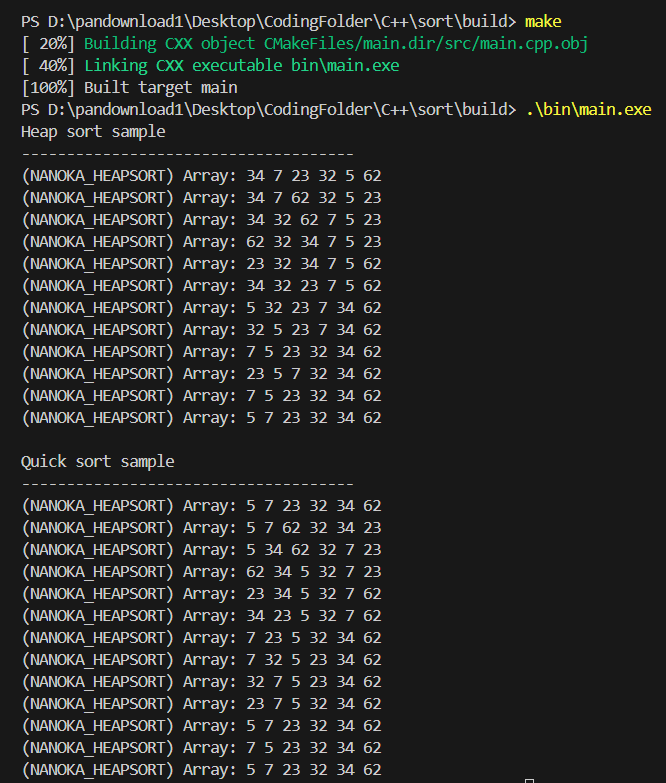
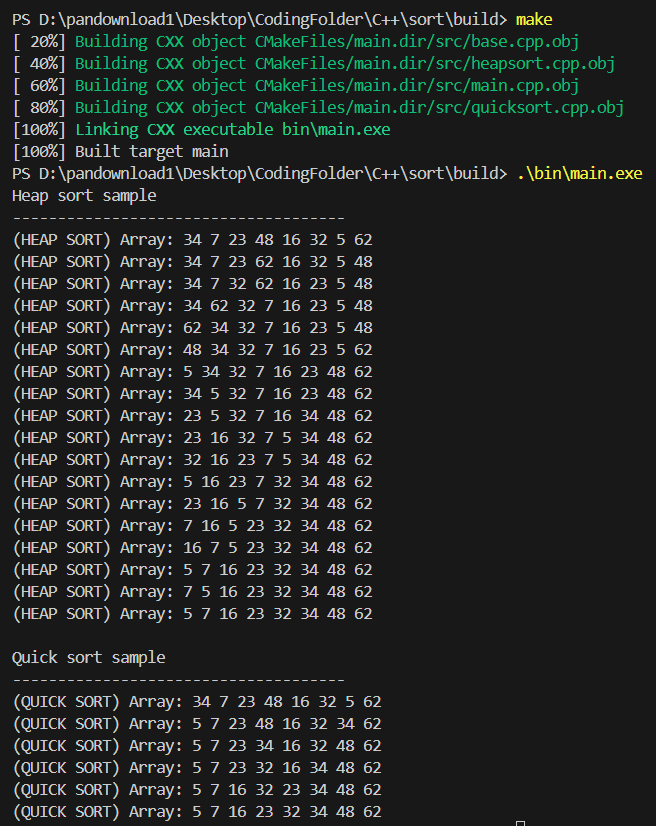
Nanoka edit. 2025/9/1

Changed region(s): [[0.0, 0.0, 0.9756, 1.0], [0.7927, 0.1839, 0.9756, 0.2146]]

diff --git a/inc/heapsort.hpp b/inc/heapsort.hpp
@@ -1,8 +1,5 @@
 #include <base.hpp>
 
-#undef TAG
-#define TAG "NANOKA_HEAPSORT"
-
 // 极力不推荐在头文件中使用 using namespace std
 using namespace std;
 
@@ -77,6 +74,7 @@ public:
 private:
     vector<int> arr;
     mutex mtx;
+    string TAG = "HEAP SORT";
 };
 
 class HeapSort{
@@ -85,11 +83,7 @@ public:
 
     // 打印数组
     inline const void printArray(void) const {
-        cout << "(" << TAG << ") Array: ";
-        for (const auto &num : arr.arr){
-            cout << num << " ";
-        }
-        cout << endl;
+        arr.printArray();
     }
     // 设置数组
     inline void setArray(const vector<int> &arr){
@@ -122,4 +116,5 @@ private:
     void heapSort(int end);
     HeapTree arr;
     mutex mtx;
+    string TAG = "HEAP SORT";
 };

diff --git a/src/main.cpp b/src/main.cpp
@@ -6,16 +6,16 @@ using namespace std;
 int main(void){
     HeapSort sorter;
     QuickSort sorter2;
-    sorter.setArray({34, 7, 23, 32, 5, 62});
-    sorter2.setArray({34, 7, 23, 32, 5, 62});
+    sorter.setArray({34, 7, 23, 48, 16, 32, 5, 62});
+    sorter2.setArray({34, 7, 23, 48, 16, 32, 5, 62});
 
     cout << "Heap sort sample\n-------------------------------------" << endl;
     sorter.printArray();
     sorter.sort();
 
     cout << "\nQuick sort sample\n-------------------------------------" << endl;
-    sorter.printArray();
-    sorter.sort();
+    sorter2.printArray();
+    sorter2.sort();
 
     // system("pause");
     return 0;

diff --git a/inc/quicksort.hpp b/inc/quicksort.hpp
@@ -1,8 +1,5 @@
 #include <base.hpp>
 
-#undef TAG
-#define TAG "NANOKA_QUICKSORT"
-
 // 极力不推荐在头文件中使用 using namespace std
 using namespace std;
 
@@ -52,4 +49,5 @@ private:
     void quickSort(int low, int high);
     vector<int> arr;
     mutex mtx;
+    string TAG = "QUICK SORT";
 };

diff --git a/inc/base.hpp b/inc/base.hpp
@@ -10,8 +10,6 @@
 #include <utility>
 #include <memory>
 
-#define TAG "NANOKA_SORT"
-
 namespace nanoka {
     std::pair<int, int> min(int a, int b);
     std::pair<int, int> max(int a, int b);
